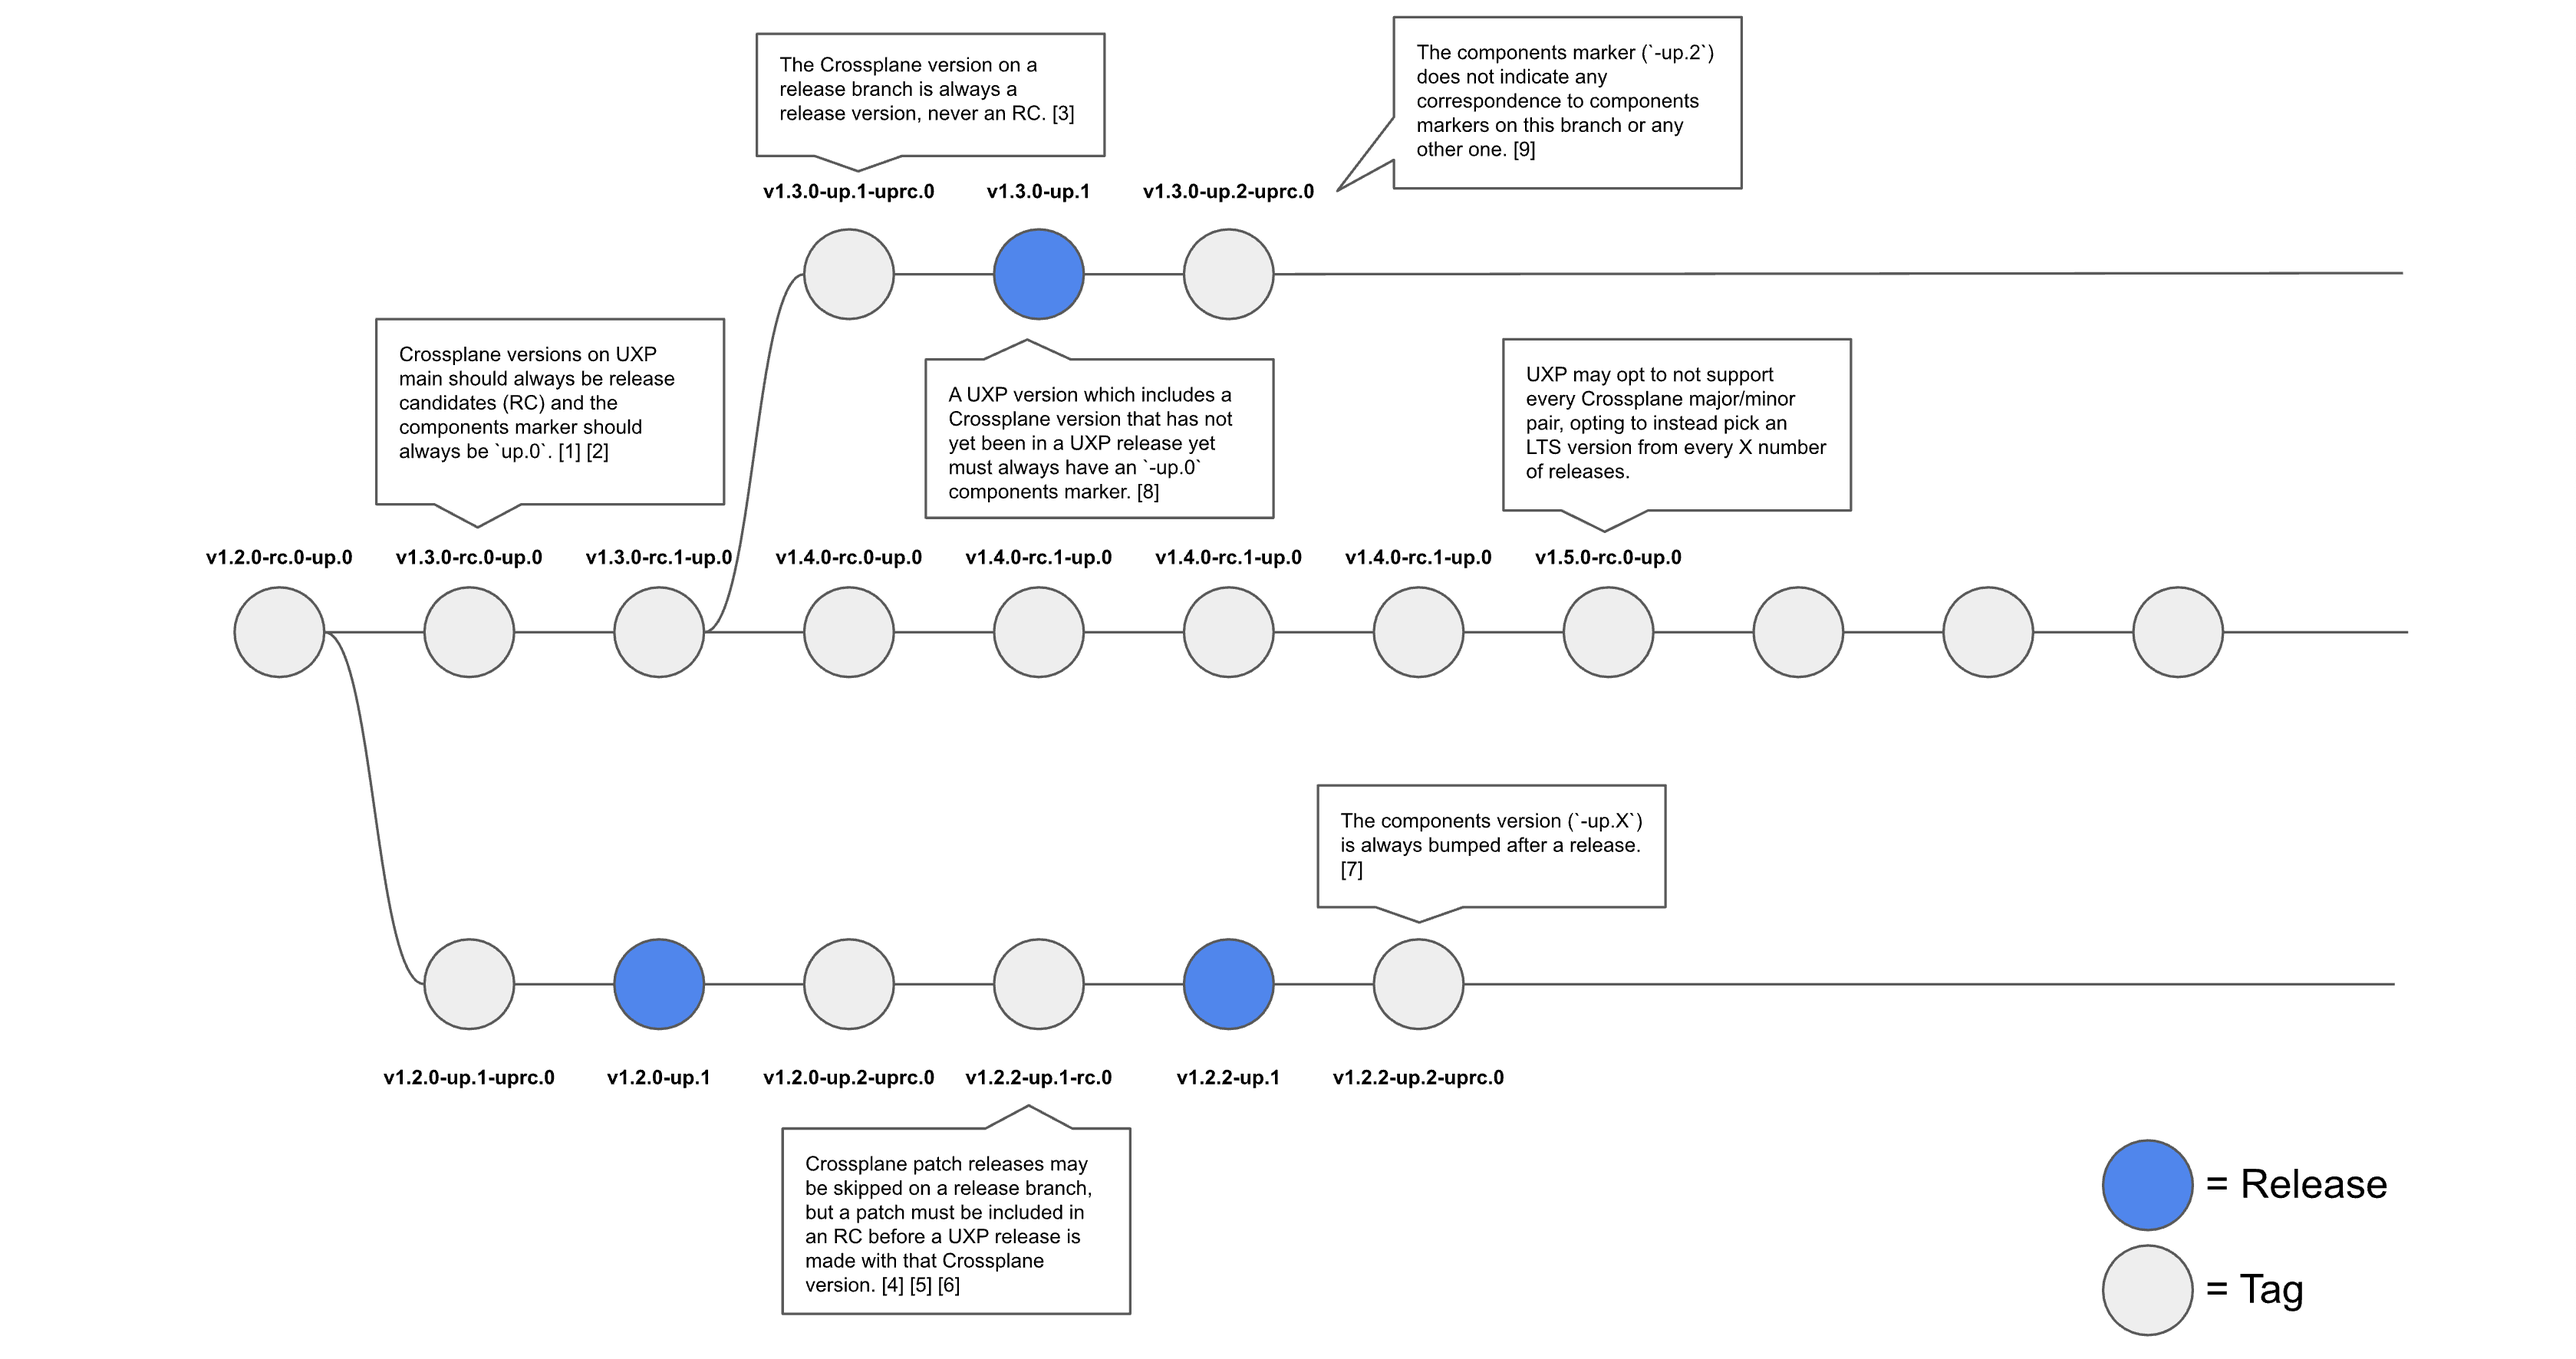
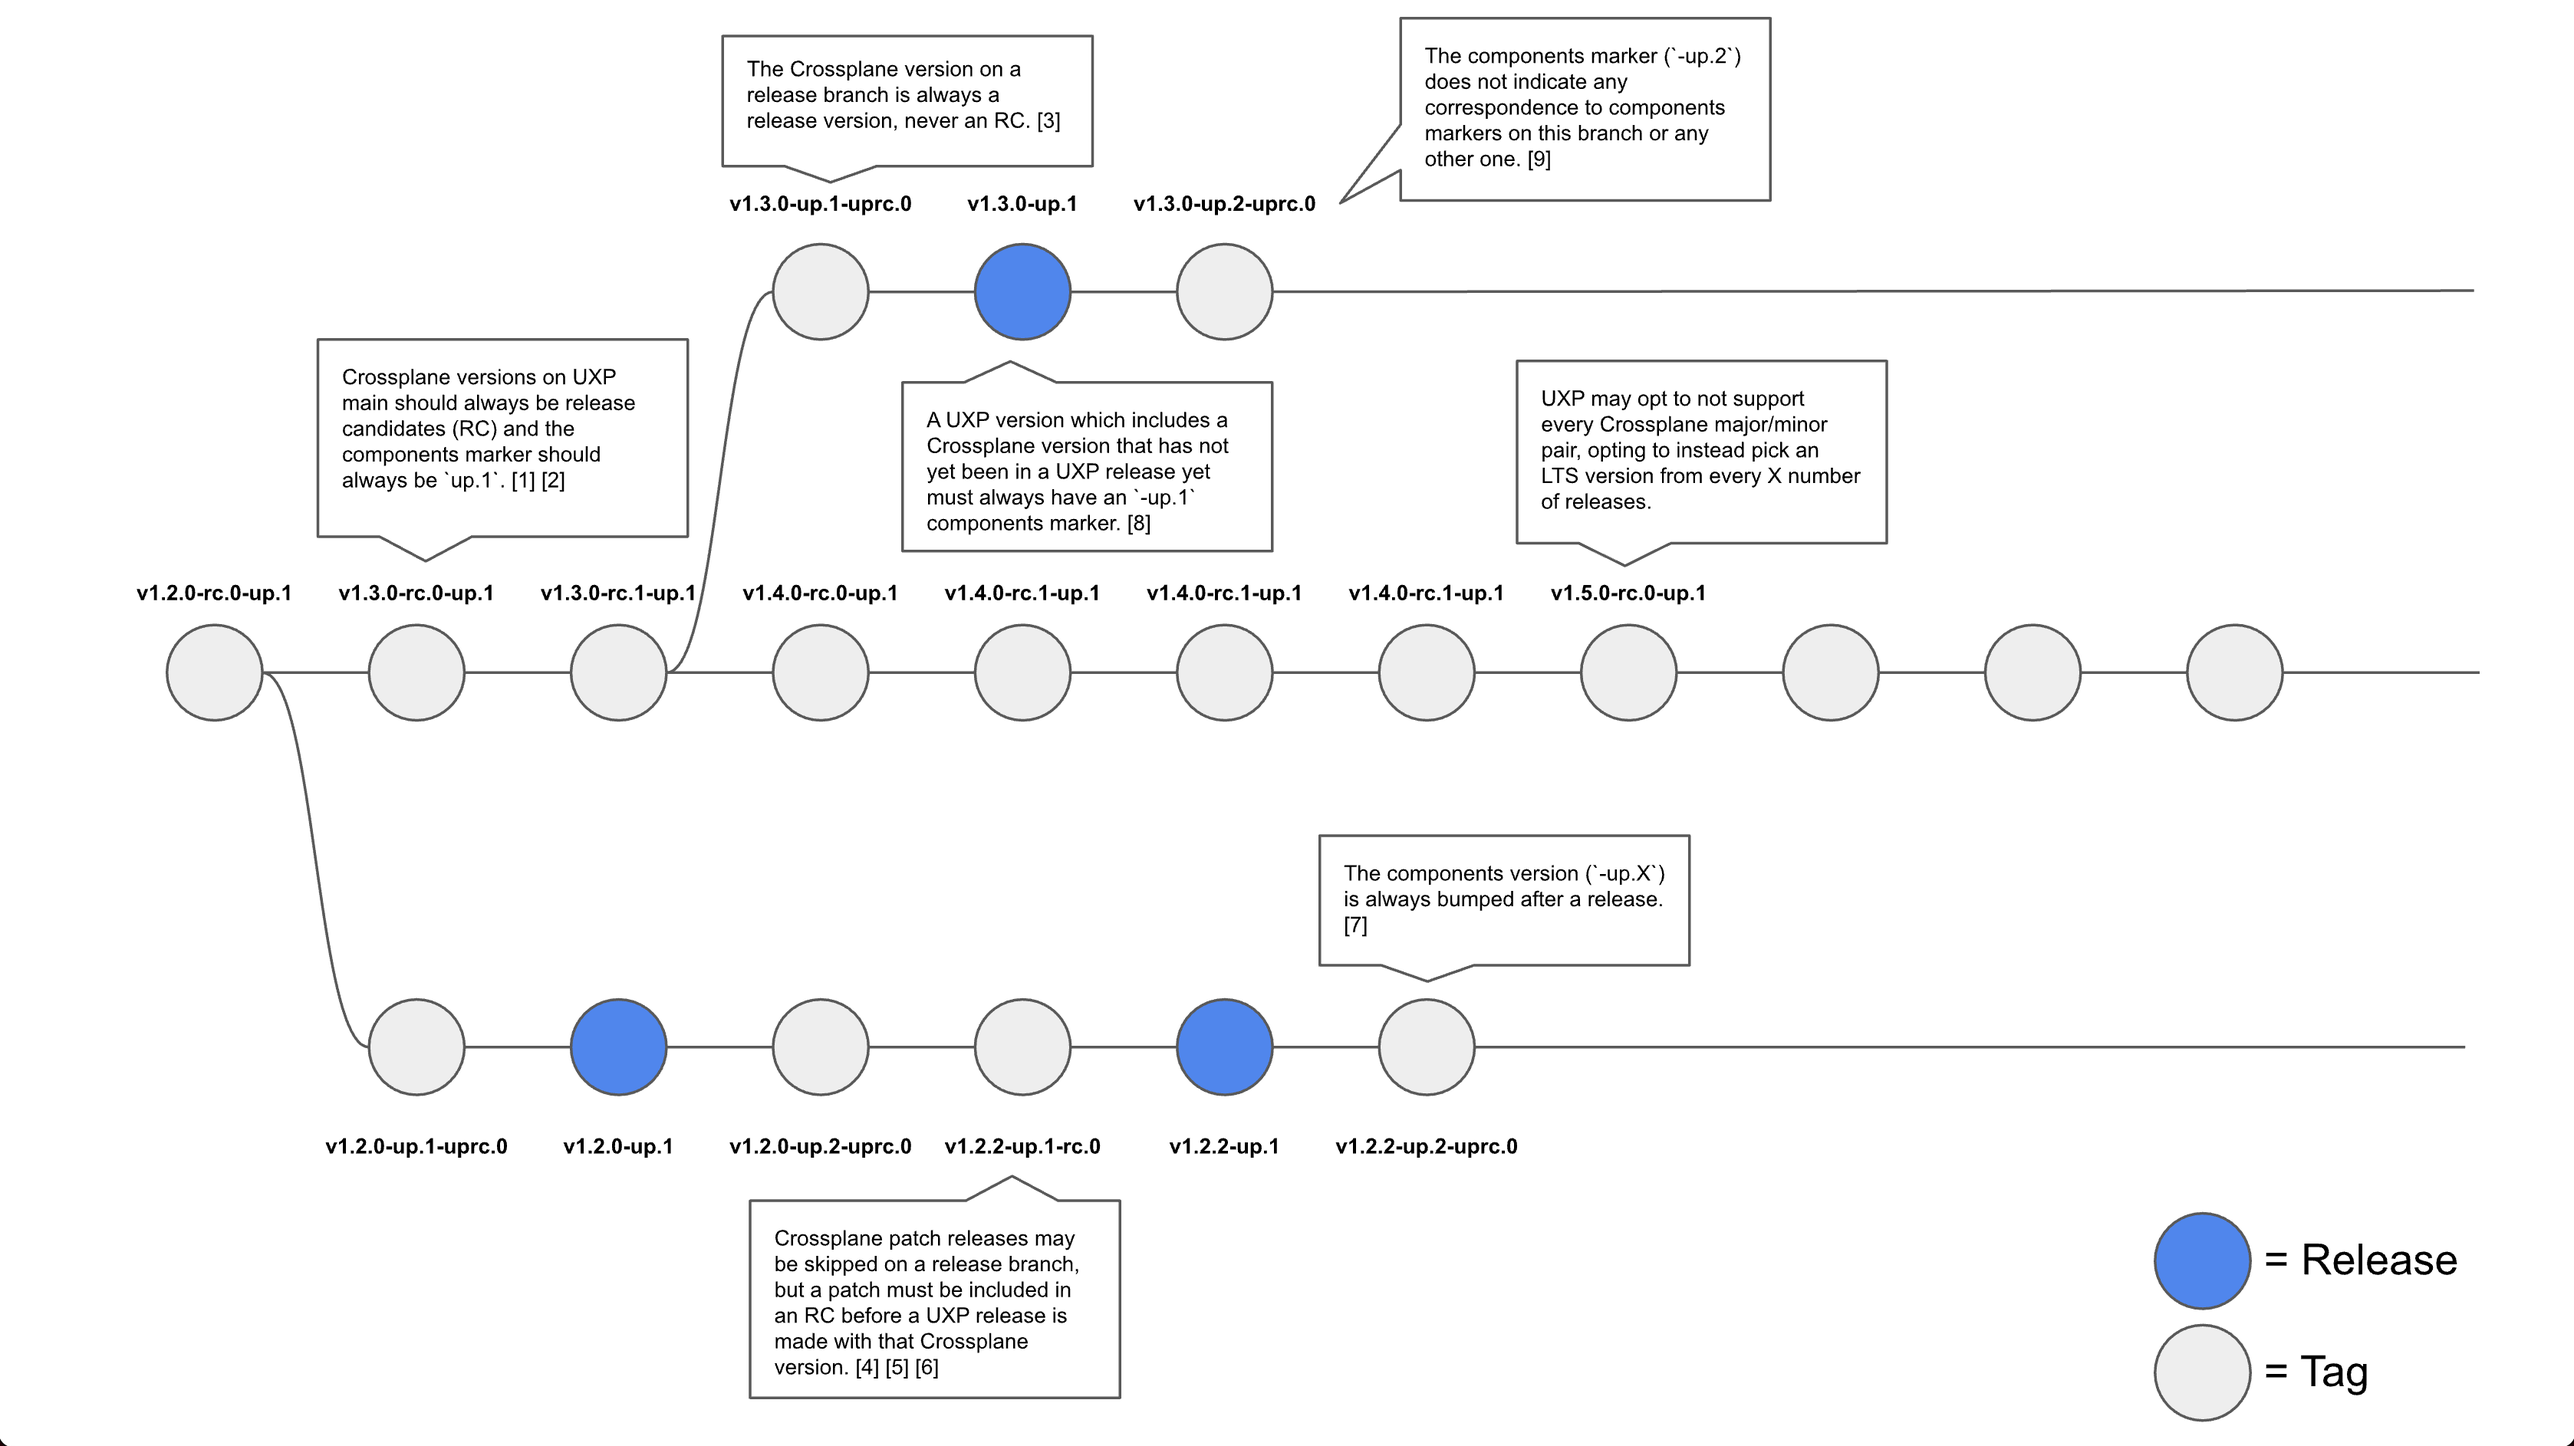
Update versioning: suffix on main as -up.1

diff --git a/VERSIONING.md b/VERSIONING.md
@@ -71,7 +71,7 @@ The UXP versioning strategy can be expressed through a series of guarantees,
 each of which are elaborated in the subsequent sections. The diagram above
 illustrates examples of each guarantee in practice.
 
-1. The components marker on UXP main should always end in `-up.0` (i.e. no
+1. The components marker on UXP main should always end in `-up.1` (i.e. no
    components release candidates).
 2. The Crossplane version on UXP main must always be a release candidate version
    for the first release of a major/minor pair (i.e. `vX.Y.0-rc.Z`).
@@ -107,7 +107,7 @@ The Crossplane version on the UXP repository `main` branch should always match
 that of the latest Crossplane tag on `master`. This ensures that we are always
 moving towards the next release branch cut that both Crossplane and UXP will
 make. By definition, this also means that the Crossplane version on UXP `main`
-will always be an RC version (e.g.`v1.4.0-rc.0-up.0`)
+will always be an RC version (e.g.`v1.4.0-rc.0-up.1`)
 
 ### Crossplane Version on Release Branches
 
@@ -123,9 +123,9 @@ that is not an official release.
 
 ### UXP Version
 
-The UXP version (i.e. `-up.0`) is independent for every Crossplane version. The
-version in main should always be `-up.0` because we cannot release `-up.0` for a
-given version until it has its first patch release (i.e. `vX.Y.0-up.1`). A UXP
+The UXP version (i.e. `-up.1`) is independent for every Crossplane version. The
+version in main should always be `-up.1` because we cannot release `-up.1` for a
+given version until it has its first patch release (i.e. `vX.Y.0-up.2`). A UXP
 release candidate (e.g. `v1.4.0-up.1-rc.0`) should be tagged and tested prior to
 any official release. In practice, this is accomplished by _always_ tagging the
 next release candidate after cutting an official release.
